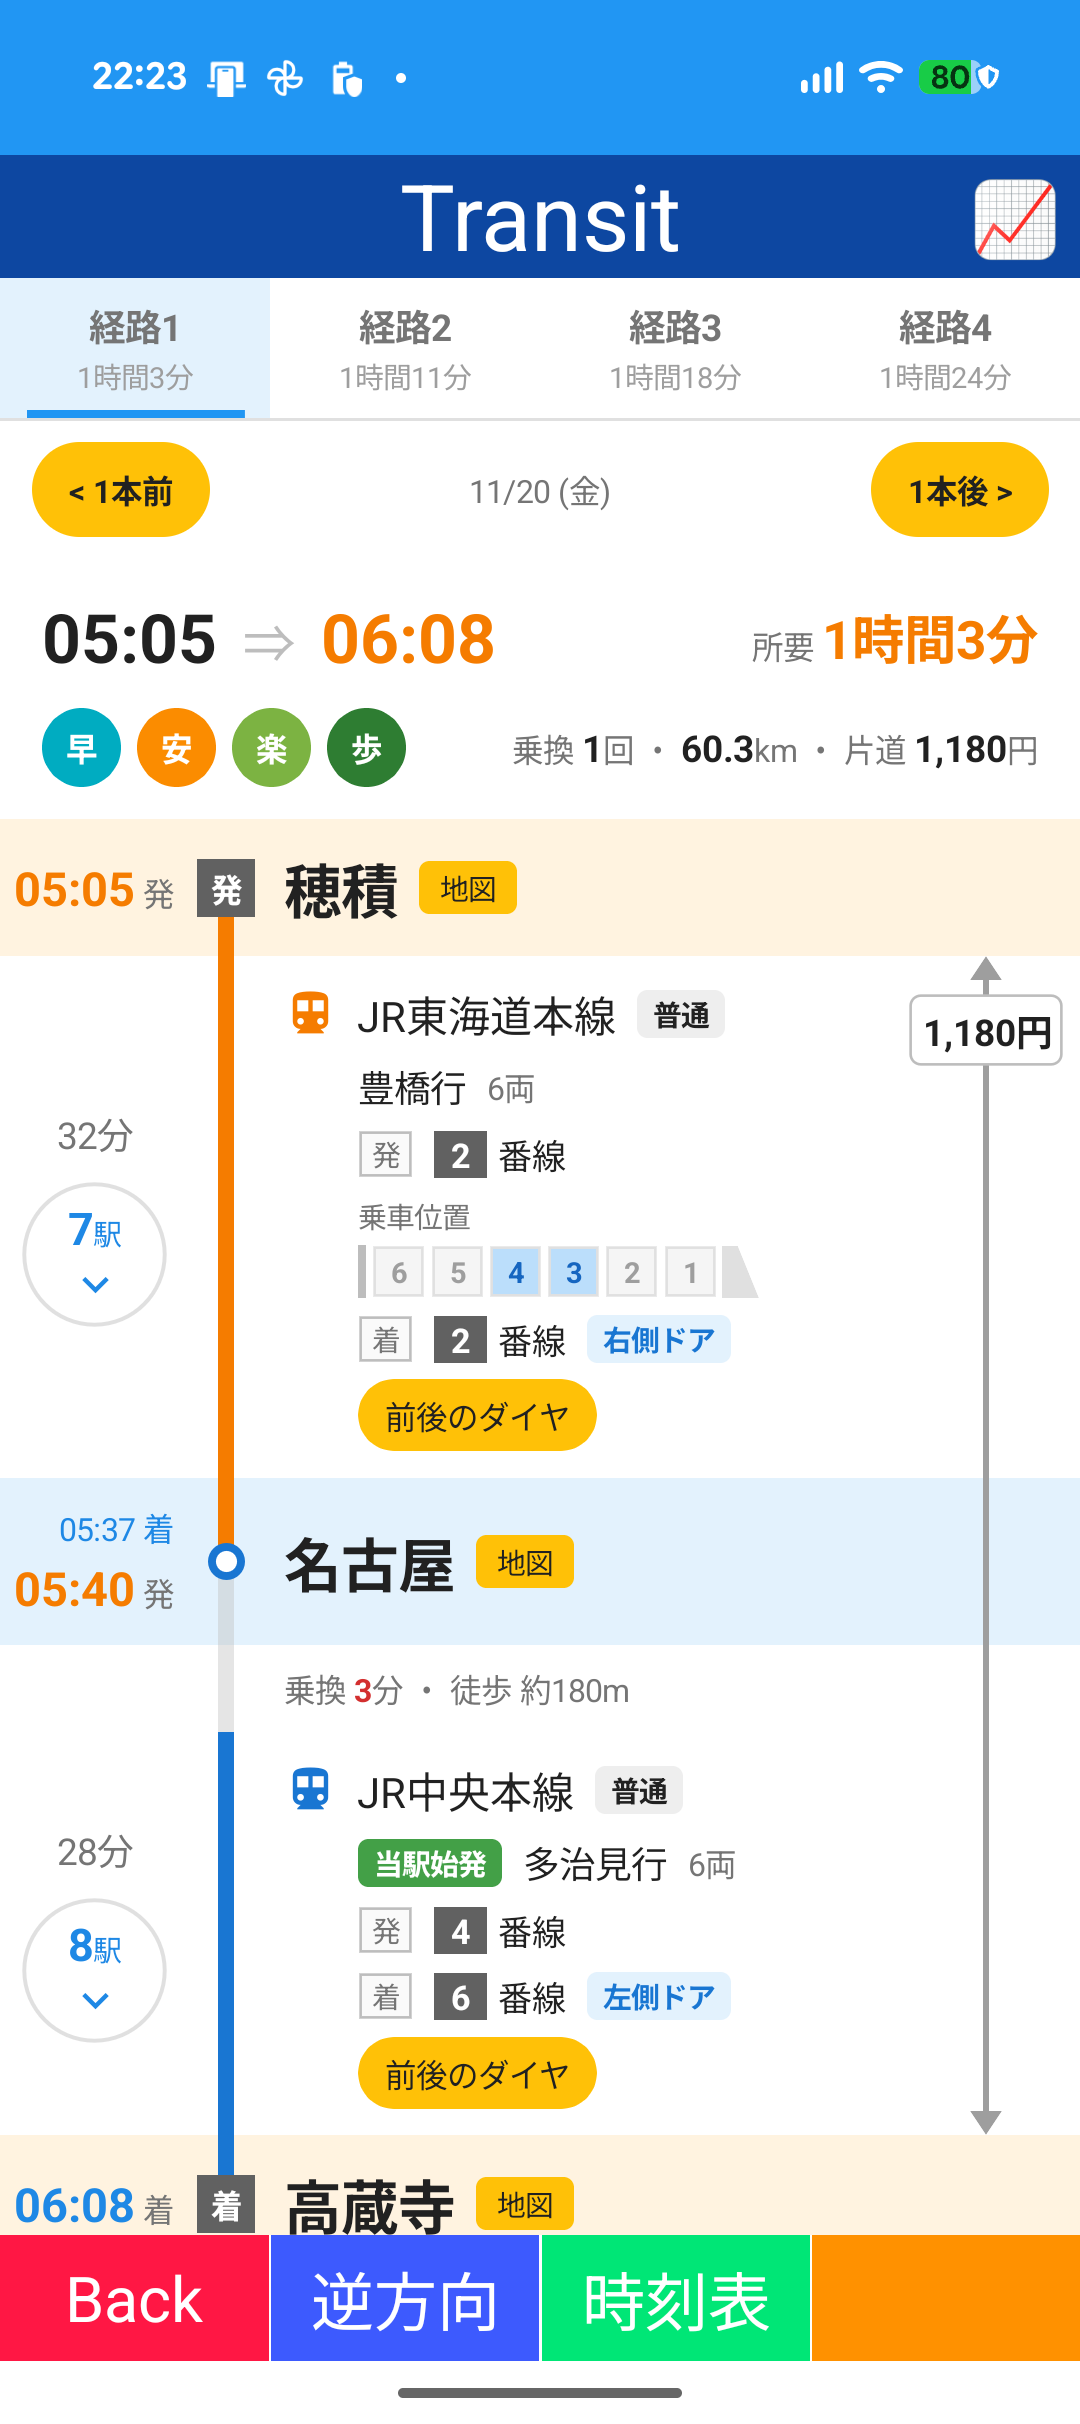
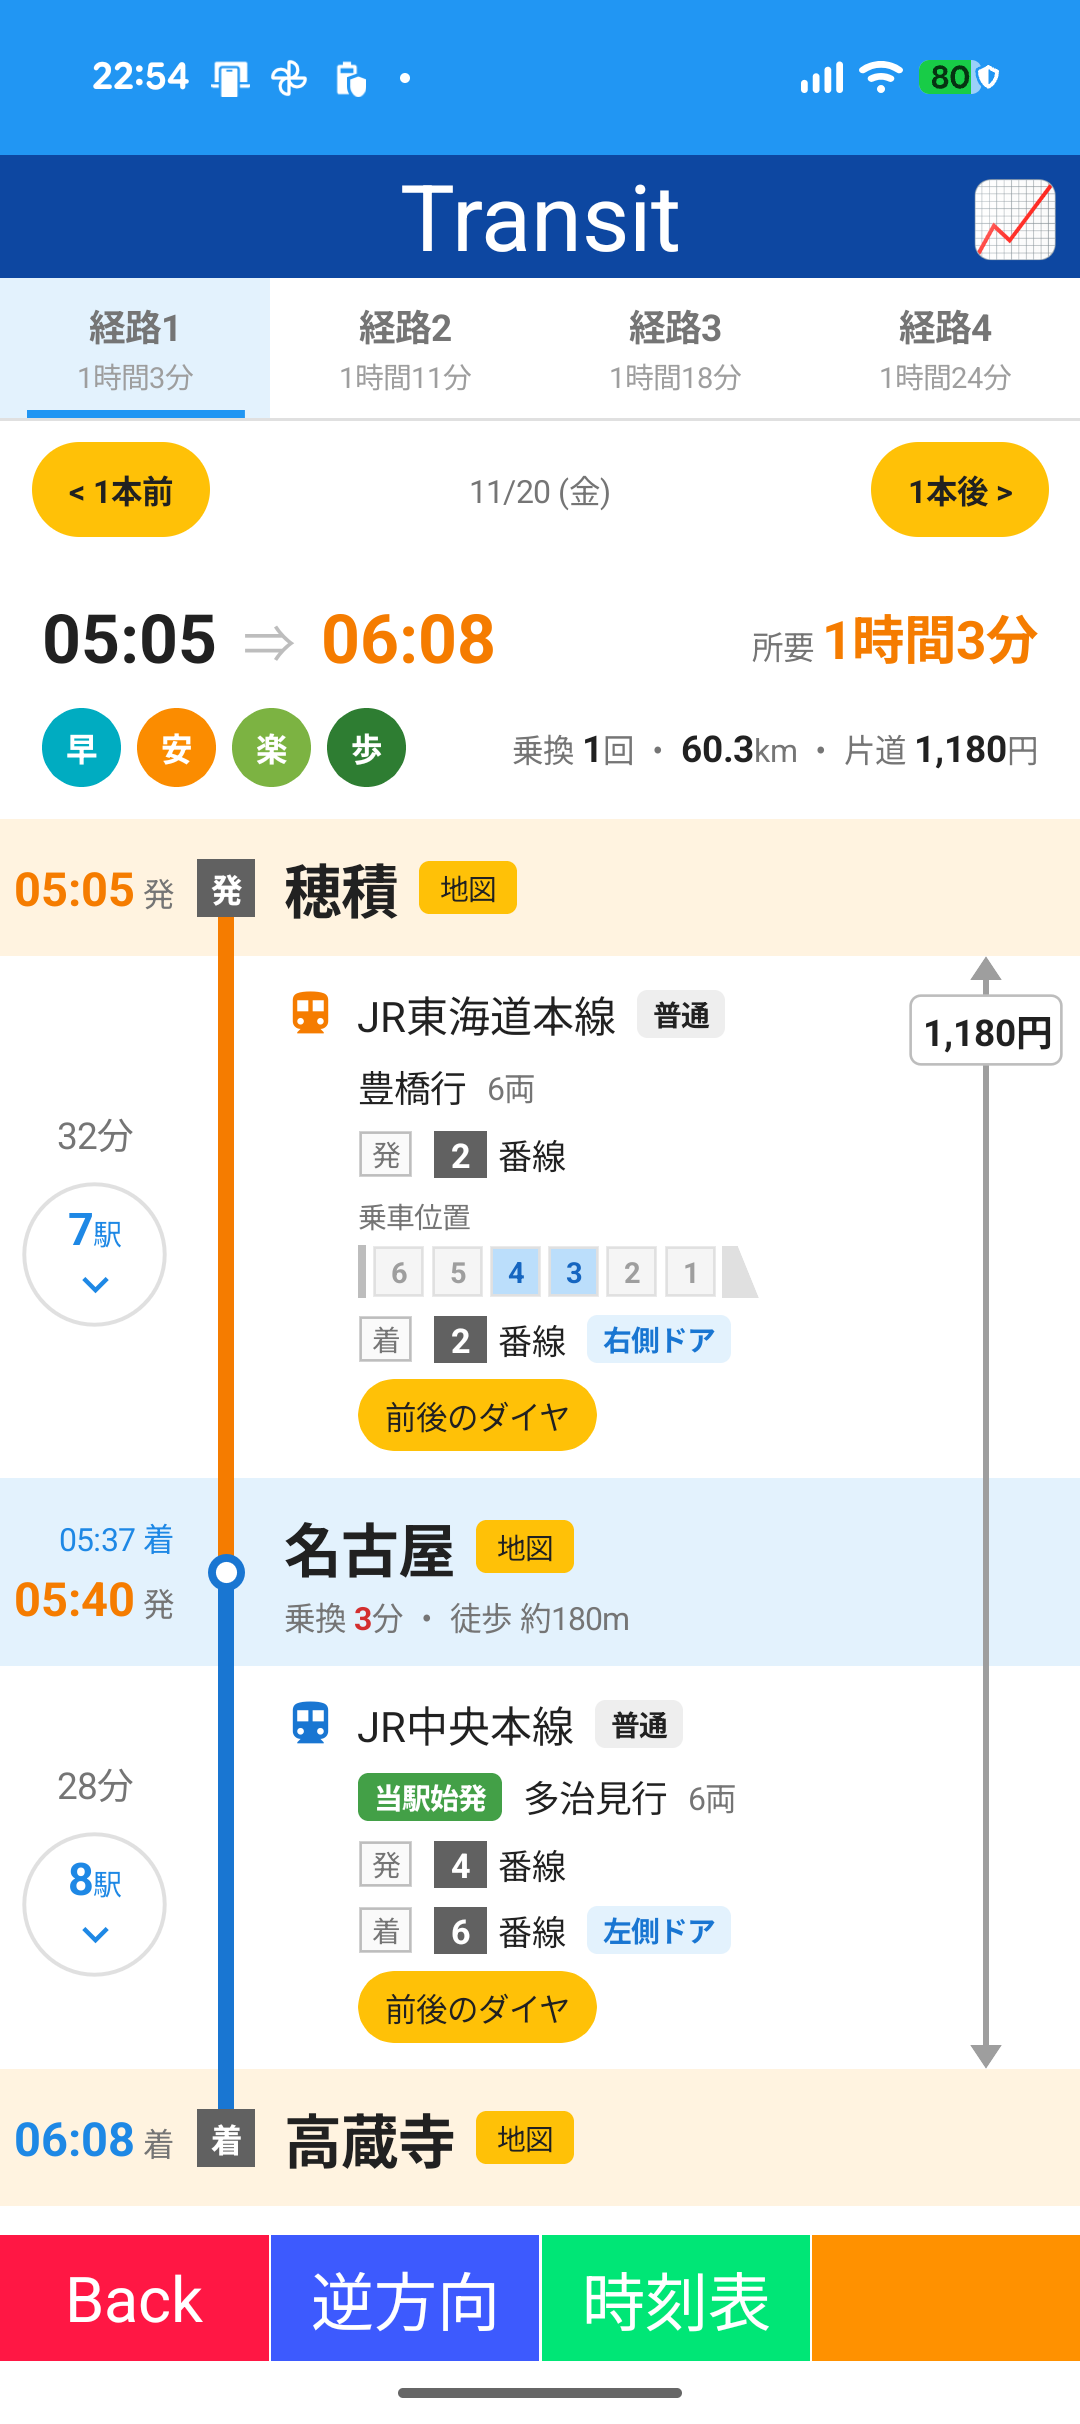
Update

Changed region(s): [[0.0, 0.6188, 1.0, 0.9282], [0.2444, 0.0, 0.275, 0.0619], [0.3056, 0.0309, 0.3361, 0.0619]]

diff --git a/Template.MobileApp/Modules/UI/UITransitView.xaml b/Template.MobileApp/Modules/UI/UITransitView.xaml
@@ -287,13 +287,6 @@
                 <Setter Property="HorizontalOptions" Value="Center" />
             </Style>
 
-            <Style x:Key="TransferRail"
-                   TargetType="BoxView"
-                   BasedOn="{StaticResource SegmentRail}">
-                <Setter Property="Color" Value="{StaticResource GrayLighten1}" />
-                <Setter Property="Opacity" Value="0.4" />
-            </Style>
-
             <Style x:Key="StationDot"
                    TargetType="Ellipse">
                 <Setter Property="WidthRequest" Value="14" />
@@ -372,6 +365,11 @@
                 <Setter Property="TextColor" Value="{StaticResource TransitSubTextColor}" />
             </Style>
 
+            <Style x:Key="StationNameBlock"
+                   TargetType="VerticalStackLayout">
+                <Setter Property="VerticalOptions" Value="Center" />
+            </Style>
+
             <Style x:Key="StationNameStack"
                    TargetType="HorizontalStackLayout">
                 <Setter Property="Margin" Value="8,0,0,0" />
@@ -405,17 +403,10 @@
 
             <!-- Transfer -->
 
-            <Style x:Key="TransferGrid"
-                   TargetType="Grid">
-                <Setter Property="BackgroundColor" Value="White" />
-            </Style>
-
             <Style x:Key="TransferLabel"
                    TargetType="Label">
-                <Setter Property="Margin" Value="8,0,0,0" />
-                <Setter Property="Padding" Value="0,8" />
+                <Setter Property="Margin" Value="8,-8,0,10" />
                 <Setter Property="FontSize" Value="12" />
-                <Setter Property="VerticalOptions" Value="Center" />
                 <Setter Property="TextColor" Value="{StaticResource TransitSubTextColor}" />
             </Style>
 
@@ -934,11 +925,7 @@
                                                  Color="{Binding ArrivalColor}" />
                                         <BoxView Grid.Row="1"
                                                  Style="{StaticResource SegmentRail}"
-                                                 IsVisible="{Binding Transfer, Converter={StaticResource EmptyConverter}}"
                                                  Color="{Binding Segment.Color}" />
-                                        <BoxView Grid.Row="1"
-                                                 Style="{StaticResource TransferRail}"
-                                                 IsVisible="{Binding Transfer, Converter={StaticResource NotEmptyConverter}}" />
                                         <Ellipse Grid.Row="0" Grid.RowSpan="2"
                                                  Style="{StaticResource StationDot}"
                                                  IsVisible="{Binding ArrivalColor, Converter={StaticResource NotEmptyConverter}}"
@@ -950,39 +937,30 @@
                                                    Text="発" />
                                         </Border>
                                     </Grid>
-                                    <HorizontalStackLayout Grid.Column="2"
-                                                           Style="{StaticResource StationNameStack}">
-                                        <Label Style="{StaticResource StationNameLabel}"
-                                               Text="{Binding Station.Name}" />
-                                        <Border Style="{StaticResource MapChipBorder}">
-                                            <Label Style="{StaticResource MapChipLabel}"
-                                                   Text="地図" />
-                                        </Border>
-                                    </HorizontalStackLayout>
-                                    <BoxView Grid.Column="3"
-                                             Style="{StaticResource FareLine}"
-                                             IsVisible="{Binding IsFareThrough}" />
-                                </Grid>
-
-                                <!-- Transfer -->
-                                <Grid Style="{StaticResource TransferGrid}"
-                                      ColumnDefinitions="72,28,*,72"
-                                      IsVisible="{Binding Transfer, Converter={StaticResource NotEmptyConverter}}">
-                                    <BoxView Grid.Column="1"
-                                             Style="{StaticResource TransferRail}" />
-                                    <Label Grid.Column="2"
-                                           Style="{StaticResource TransferLabel}">
-                                        <Label.FormattedText>
-                                            <FormattedString>
-                                                <Span Text="乗換 " />
-                                                <Span Style="{StaticResource TransferStrongSpan}"
-                                                      Text="{Binding Transfer.Minutes, FallbackValue=''}" />
-                                                <Span Text="分 ・ 徒歩 約" />
-                                                <Span Text="{Binding Transfer.WalkMeters, FallbackValue=''}" />
-                                                <Span Text="m" />
-                                            </FormattedString>
-                                        </Label.FormattedText>
-                                    </Label>
+                                    <VerticalStackLayout Grid.Column="2"
+                                                         Style="{StaticResource StationNameBlock}">
+                                        <HorizontalStackLayout Style="{StaticResource StationNameStack}">
+                                            <Label Style="{StaticResource StationNameLabel}"
+                                                   Text="{Binding Station.Name}" />
+                                            <Border Style="{StaticResource MapChipBorder}">
+                                                <Label Style="{StaticResource MapChipLabel}"
+                                                       Text="地図" />
+                                            </Border>
+                                        </HorizontalStackLayout>
+                                        <Label Style="{StaticResource TransferLabel}"
+                                               IsVisible="{Binding Transfer, Converter={StaticResource NotEmptyConverter}}">
+                                            <Label.FormattedText>
+                                                <FormattedString>
+                                                    <Span Text="乗換 " />
+                                                    <Span Style="{StaticResource TransferStrongSpan}"
+                                                          Text="{Binding Transfer.Minutes, FallbackValue=''}" />
+                                                    <Span Text="分 ・ 徒歩 約" />
+                                                    <Span Text="{Binding Transfer.WalkMeters, FallbackValue=''}" />
+                                                    <Span Text="m" />
+                                                </FormattedString>
+                                            </Label.FormattedText>
+                                        </Label>
+                                    </VerticalStackLayout>
                                     <BoxView Grid.Column="3"
                                              Style="{StaticResource FareLine}"
                                              IsVisible="{Binding IsFareThrough}" />
